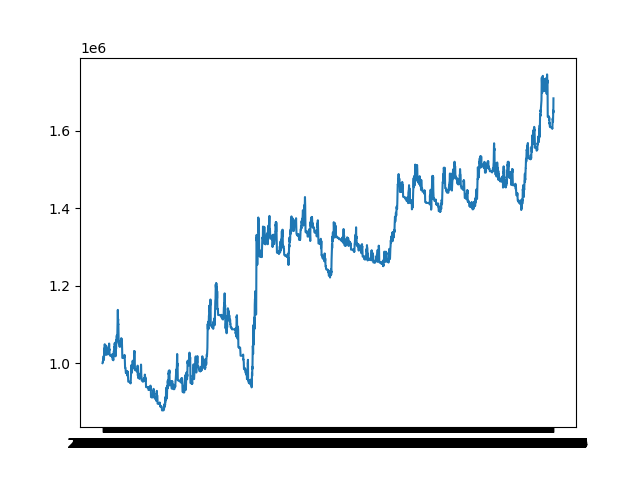
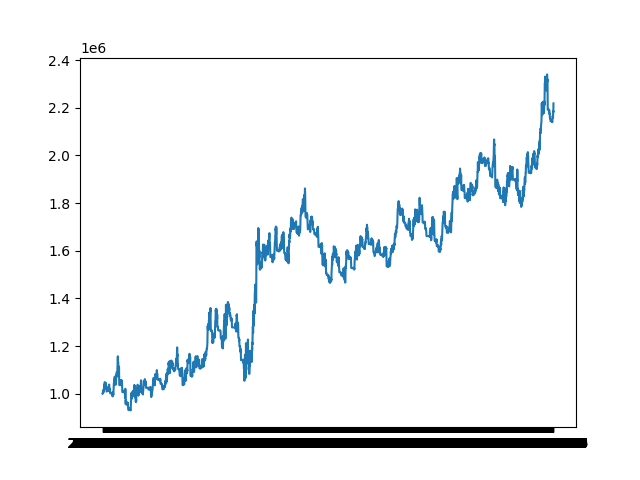
backup

diff --git a/funcMain.py b/funcMain.py
@@ -6,6 +6,7 @@ import os
 import time
 import random
 import numpy as np
+import math
 
 def pull_stock_data(Stock_No, date, proxy_dict):
     #https://www.twse.com.tw/exchangeReport/STOCK_DAY_AVG?response=json&date=20200401&stockNo=0050
@@ -64,6 +65,7 @@ def init_stock_data(Stock_No_Array, proxy_source_dict):
                     bt.insertData("Tw_Stock_Price_Per_Day", "Stock_"+str(_stock),\
                         list(_db_table_formats.keys()), \
                         [_price_date_transformed, _price])
+                        print("insert works ", + _price_date_transformed)
                 except:
                     print("Error in sql insert "+ _price_date_transformed)
                     
@@ -91,13 +93,28 @@ def Transaction_Strategy_BBand(DB, stock_No, yesterday_date, today_price):
     _price_std = np.std(_price_array)
     if today_price >= np.mean(_price_array) - 1*_price_std:
         return "Buy"
+    elif today_price >= np.mean(_price_array) - 2*_price_std:
+        return "Buy_More"
+
     elif np.mean(_price_array) - float(today_price) >= 0.5:
         return "Sell"
-    elif today_price >= np.mean(_price_array) - _price_std:
-        return "Sell_Half"
-    elif np.mean(_price_array) - 2*_price_std <= today_price:
-        return "Buy_More"
     elif np.mean(_price_array) + 1*_price_std >= today_price:
         return "Sell_Half"
-    else :
+    else:
         return "Hold"
+
+def ratings_reckon(origin_number, last_number, ratings, period, years):
+    #last_number = origin_number * power((1+ ratings/period), period*years)
+    if origin_number == -1:
+        origin_number = last_number/ math.pow((1+ ratings/(period*years)), period*years)
+    if last_number == -1:
+        last_number = origin_number * math.pow(1+ ratings/(period*years), period*years)
+    if ratings == -1:
+        ratings = (math.exp(math.log(last_number/origin_number)/(period*years)) -1) * (period*years)
+            
+    return {
+        "origin_number": origin_number,
+        "last_number" : last_number,
+        "ratings" : ratings
+    }
+

diff --git a/init_stock.py b/init_stock.py
@@ -1,0 +1,15 @@
+from toolBox import basicTool as bt
+from toolBox import webTool as wt
+import funcMain as fm
+import numpy as np
+import matplotlib.pyplot as plt
+
+Proxy_List = bt.csvtoArray("./Source/ProxyList.csv")
+Proxy_in_dict = {}
+for ip in Proxy_List:
+    if ip[0] not in Proxy_in_dict:
+        Proxy_in_dict[ip[0]] = {"https":ip[0]}
+
+#init
+#fm.init_stock_data(["0050"],Proxy_in_dict)
+fm.init_stock_data(["2382"],Proxy_in_dict)

diff --git a/main.py b/main.py
@@ -68,6 +68,5 @@ for _t, keys in enumerate(_key_array_sort[30:]):
 plt.plot(G_Plt_X, G_Plt_Y)
 plt.savefig('./foo.png', dpi=100)
 print(G_Start_Money, G_Stock_Hold, int(G_Start_Money+G_Stock_Hold*G_Last_Price))
-        
-
+print("R = ", fm.ratings_reckon(1000000, int(G_Start_Money+G_Stock_Hold*G_Last_Price), -1, 1, 17))  
 
